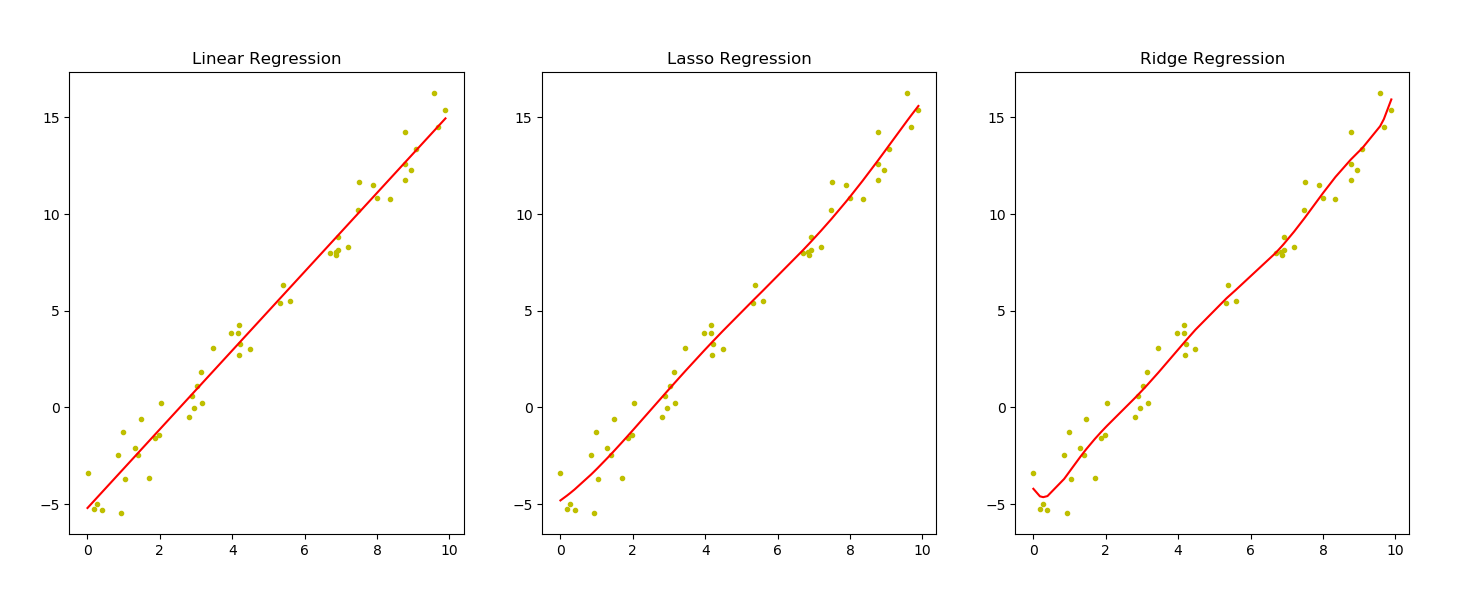
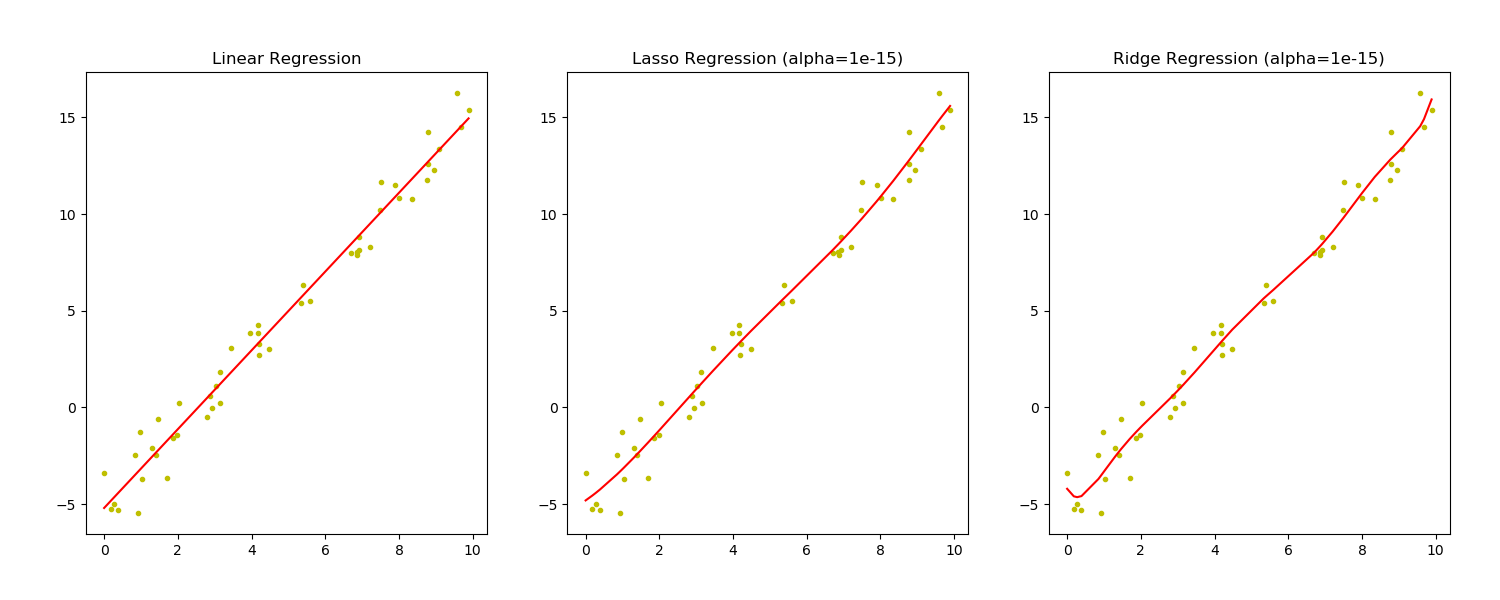
lasso ridge

diff --git a/README.md b/README.md
@@ -1,3 +1,10 @@
+![simplinnovation](https://4.bp.blogspot.com/-f7YxPyqHAzY/WJ6VnkvE0SI/AAAAAAAADTQ/0tDQPTrVrtMAFT-q-1-3ktUQT5Il9FGdQCLcB/s350/simpLINnovation1a.png)
+
+# Linear, Lasso vs Ridge Regression
+
+![plot](./6_allReg.png)
+
+```python
 import pandas as pd
 import numpy as np
 import matplotlib.pyplot as plt
@@ -64,3 +71,15 @@ plt.plot(x, modelRidge.predict(x.reshape(-1, 1)), 'r-')
 plt.title('Ridge Regression (alpha=1e-15)')
 
 plt.show()
+```
+
+#
+
+#### Lintang Wisesa :love_letter: _lintangwisesa@ymail.com_
+
+[Facebook](https://www.facebook.com/lintangbagus) | 
+[Twitter](https://twitter.com/Lintang_Wisesa) |
+[Google+](https://plus.google.com/u/0/+LintangWisesa1) |
+[Youtube](https://www.youtube.com/user/lintangbagus) | 
+:octocat: [GitHub](https://github.com/LintangWisesa) |
+[Hackster](https://www.hackster.io/lintangwisesa)
